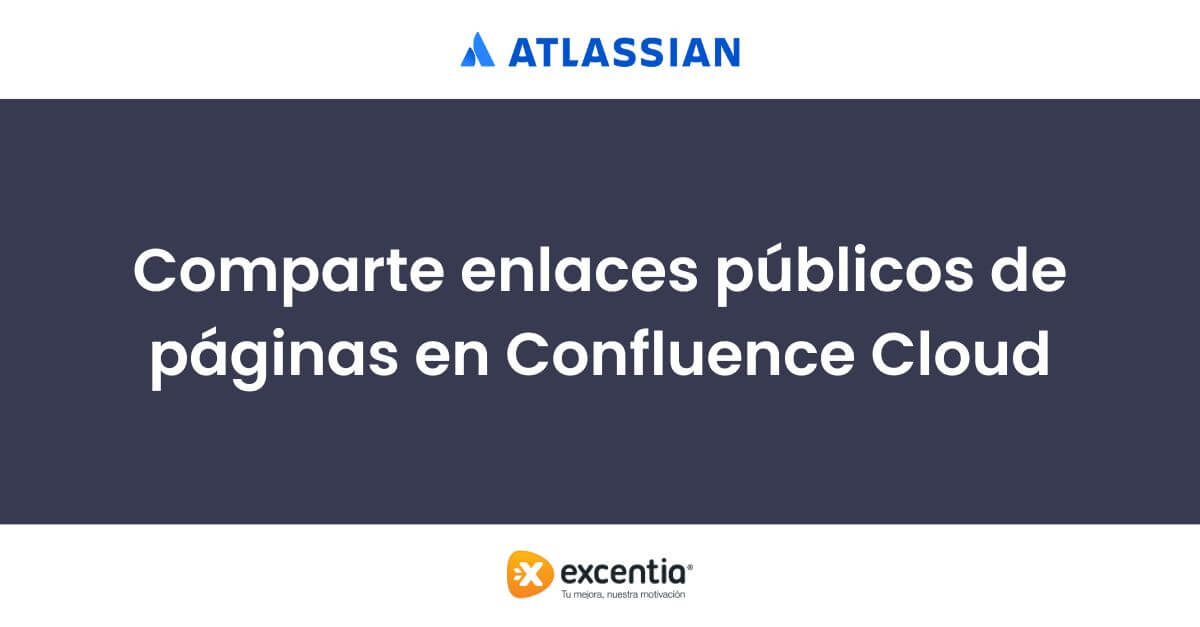
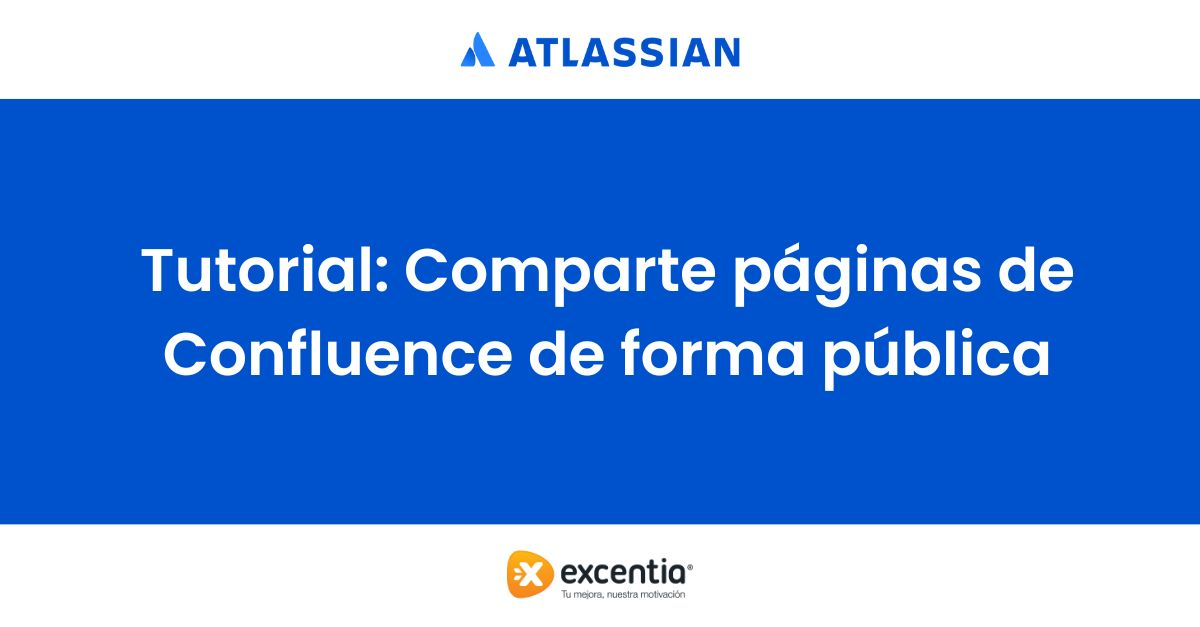
tutorialissues

diff --git a/_posts/2023-11-13-tutorial-como-anadir-issues-jira-en-confluence.md b/_posts/2023-11-13-tutorial-como-anadir-issues-jira-en-confluence.md
@@ -1,0 +1,62 @@
+---
+layout: post
+title: 'Tutorial: ¿Cómo añadir issues de Jira en Confluence?'
+description: Crea issues de Jira a partir de las evidencias del reporte de OWASP ASVS.
+date: '2023-11-12T08:00:00Z'
+author: Belén Casanovas
+categories:
+- tutorial
+- confluence
+- jira
+
+
+cover: /img/posts/2023-11-13-tutorial-como-anadir-issues-jira-en-confluence.jpg
+
+---
+
+<img width="100%" src="img/posts/2023-11-13-tutorial-como-anadir-issues-jira-en-confluence.jpg" alt="Añadir issues de Jira en Confluence">
+
+El equipo de Atlassian ha **modernizado** la forma de añadir issues de Jira en Confluence Cloud. Así que, cómo no podía ser de otra forma, en el tutorial de este mes te vamos a explicar cómo lo puedes realizar.
+
+Tal y como han informado en un post en [Atlassian Community](https://community.atlassian.com/t5/Confluence-Cloud-articles/New-Inserting-Jira-issues-into-Confluence-pages-is-easier-than/ba-p/2510849), esta mejora surge a partir del estudio de *Jira Issues Macro (formerly /Jira, now /Jira Legacy)*. 
+
+A partir de ahora, será más sencillo añadir las issues a Confluence Cloud gracias a los siguientes cambios: 
+
+- Resaltado de sintaxis y errores.
+
+- Reordenación de campos con el gesto de 'arrastrar y soltar'.
+
+- Menú desplegable simple para agregar o eliminar campos.
+
+- Diseño visual modernizado y simplificado.
+
+- Desplazamiento infinito por las issues de Jira.
+
+- Vista previa al pasar el cursor sobre las issues de Jira. 
+
+- Soporte para búsqueda básica de palabras clave.
+
+<br>
+
+## Paso a paso
+
+Ahora sí. Te enseñamos a añadir las issues de **Jira en Confluence Cloud** en cuatro pasos:
+
+1 - Crea una nueva página en Confluence Cloud.
+
+<br>
+2 - Selecciona `+` en el menú de la barra de herramientas y busca *Jira issues*
+
+<br>
+3 - Realiza la búsqueda de las issues que deseas adjuntar. Puedes realizarla a través del [lenguaje JQL](https://www.excentia.es/jql-la-forma-de-buscar-en-jira) o con una búsqueda de palabras clave.
+
+<br>
+4 - Una vez los tengas, clica sobre *Insertar issues* y ya lo tendrás. 
+
+
+Aquí te dejamos el **videotutorial** correspondiente de [nuestro canal de YouTube](https://www.youtube.com/channel/UCXF-sOhNHft67Id_7XJmxwg/) para que veas paso a paso cómo añadir issues de Jira en Confluence Cloud:
+
+<iframe width="560" height="315" src="https://www.youtube.com/embed/lrBb-GlBuE4?si=x-ktTeKRUFQGz0HR" title="YouTube video player" frameborder="0" allow="accelerometer; autoplay; clipboard-write; encrypted-media; gyroscope; picture-in-picture; web-share" allowfullscreen></iframe>
+
+<br>
+Nos leemos en próximos tutoriales. No dudes en seguir navegando por nuestra web si quieres más información sobre las funcionalidades de [Jira](/jira-software.html) o [Confluence](/confluence.html).

diff --git a/_posts/2023-10-26-tutorial-confluence-compartir-pagina-url-publica.md b/_posts/2023-10-26-tutorial-confluence-compartir-pagina-url-publica.md
@@ -1,12 +1,13 @@
 ---
 layout: post
-title: 'Comparte enlaces públicos con Confluence Cloud'
+title: 'Tutorial: Comparte páginas de Confluence de forma pública'
 description: Atlassian lanza una nueva funcionalidad para compartir páginas de Confluence. ¡Te lo contamos!
 date: '2023-10-26T08:00:00Z'
 author: Belén Casanovas
 categories:
 - atlassian
 - confluence
+- tutorial
 
 
 cover: /img/posts/2023-10-26-enlaces-publicos-confluence.jpg
